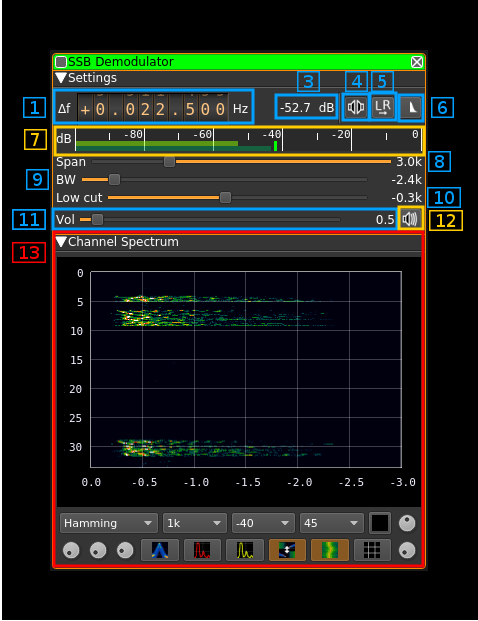
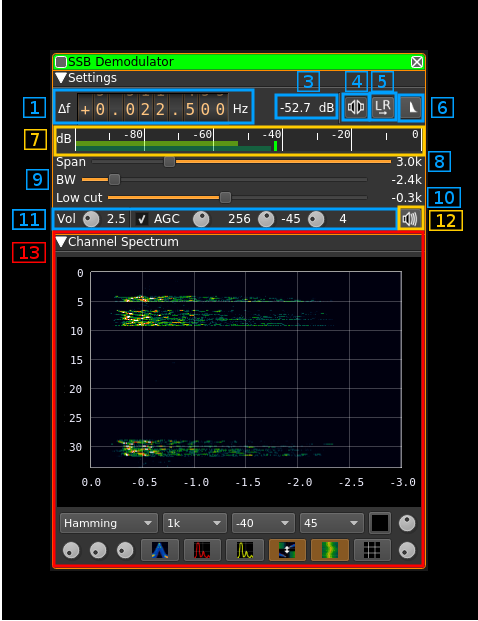
SSBdemod: updated documentation

diff --git a/plugins/channelrx/demodssb/readme.md b/plugins/channelrx/demodssb/readme.md
@@ -96,9 +96,45 @@ Values are expressed in kHz and step is 100 Hz.
   - In SSB mode this is the lower cutoff (USB: positive frequencies) or higher cutoff (LSB: negative frequencies) of the in channel signe side band bandpass filter.
   - In DSB mode it is inactive and set to zero (double side band filter).
 
-<h3>11: Volume</h3>
+<h3>11: Volume and AGC</h3>
+
+![SSB volume and AGC controls](../../../doc/img/SSBDemod_plugin_vol.png)
+
+<h4>11.1: Volume</h4>
 
 This is the volume of the audio signal from 0.0 (mute) to 10.0 (maximum). It can be varied continuously in 0.1 steps using the dial button.
+
+<h4>11.2: AGC toggle</h4>
+
+Use this checkbox to toggle AGC on and off.
+
+If you are into digging weak signals out of the noise you probably will not turn the AGC on. AGC is intended for medium and large signals and help accomodate the signal power variations from a station to another or due to QSB.
+
+This AGC is based on the calculated magnitude (square root of power of the filtered signal as I² + Q²) and will try to adjust audio volume as if a -20dB power signal was received.
+
+<h4>11.3: AGC time constant</h4>
+
+This is the time window in milliseconds of the moving average used to calculate the signal power average. It can be varied in powers of two from 16 to 2048 ms that is: 16, 32, 64, 128, 256, 512, 1024 and 2048 ms. The most practical values are between 128 and 512 ms.
+
+<h4>11.4: Signal power threshold (squelch)</h4>
+
+Active only in AGC mode.
+
+This threshold acts as a squelch and will mute the sound below this average signal power. To prevent short transient drop outs the squelch gets active only if the power has been below the threshold for a period equal to the AGC time constant (11.3)
+
+This feature is mostly useful when more than one SSB channel is active. When there is no transmission the level of noise rises at the level of a normal signal due to the AGC and adds to the noise of other channels. Therefore it is desirable to shut down the audio when there is no signal in the channel.
+
+To turn off the squelch completely move the knob all the way down (left). Then "---" will display as the value and the squelch will be disabled.
+
+The signal power is calculated as the moving average over the AGC time constant (11.3) of the power  of the filtered signal as I² + Q².
+
+<h4>11.5: Signal power threshold (squelch) gate</h4>
+
+Active only in AGC mode with squelch enabled.
+
+To avoid unwanted squelch opening on short transient bursts only signals wilth power above threshold during this period in milliseconds will open the squelch.It can be varied from 0 to 20 ms in 1 ms steps.
+
+When the power threshold is close to the noise floor a few milliseconds help in preventing noise power wiggle to open the squelch.
 
 <h3>12: Audio mute</h3>
 
